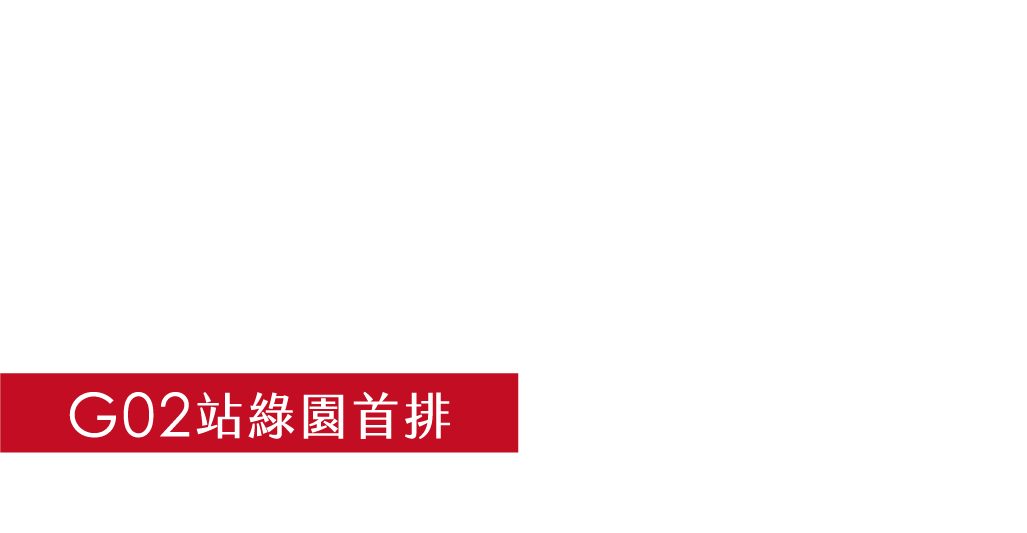
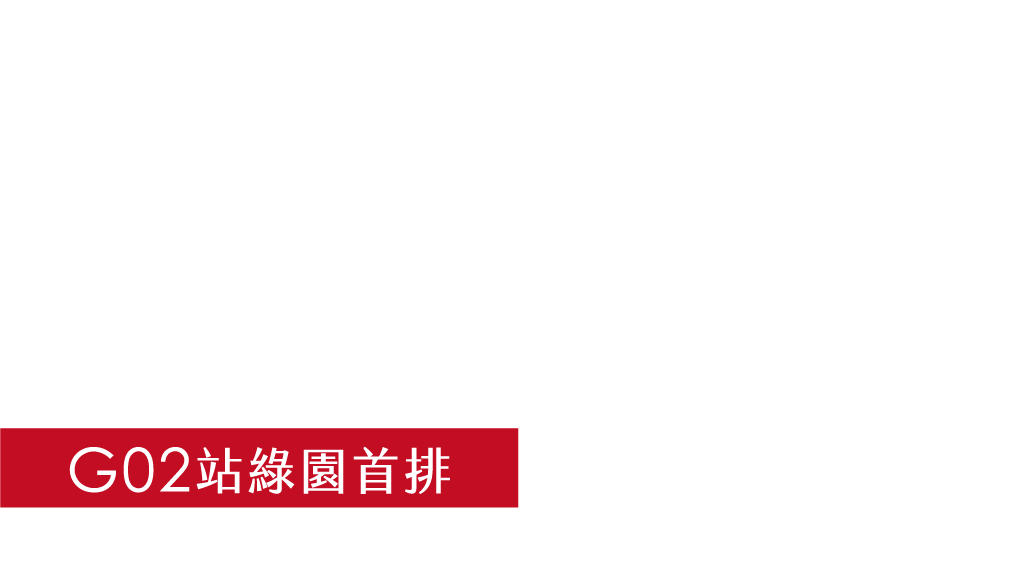
updated

Changed region(s): [[0.0, 0.6904, 0.5297, 0.8705]]

diff --git a/src/Header.js b/src/Header.js
@@ -9,7 +9,7 @@ function Header() {
       >
         <div className=' absolute top-0 right-0 w-1/3' data-aos="fade" data-aos-duration="1500"><img src={process.env.PUBLIC_URL+'/images/header_c01.png'} alt="" /></div>
         <div className=' absolute bottom-0 left-0 w-1/3' data-aos="fade" data-aos-duration="1500" data-aos-delay="300"><img src={process.env.PUBLIC_URL+'/images/header_c02.png'} alt="" /></div>
-        <div className=' absolute top-1/2 left-1/2 -translate-x-1/2 -translate-y-1/2 w-2/4' >
+        <div className=' absolute top-[20%] left-1/2 -translate-x-1/2  w-2/4' >
           <img src={process.env.PUBLIC_URL+'/images/header_title.png'} alt="" className='w-full' data-aos="fade-down" data-aos-duration="1500" />
         </div>
 

diff --git a/public/index.html b/public/index.html
@@ -5,10 +5,6 @@
     <link rel="icon" href="%PUBLIC_URL%/favicon.ico" />
     <meta name="viewport" content="width=device-width, initial-scale=1" />
     <meta name="theme-color" content="#000000" />
-    <meta
-      name="description"
-      content="Web site created using create-react-app"
-    />
     <!--
       manifest.json provides metadata used when your web app is installed on a
       user's mobile device or desktop. See https://developers.google.com/web/fundamentals/web-app-manifest/
